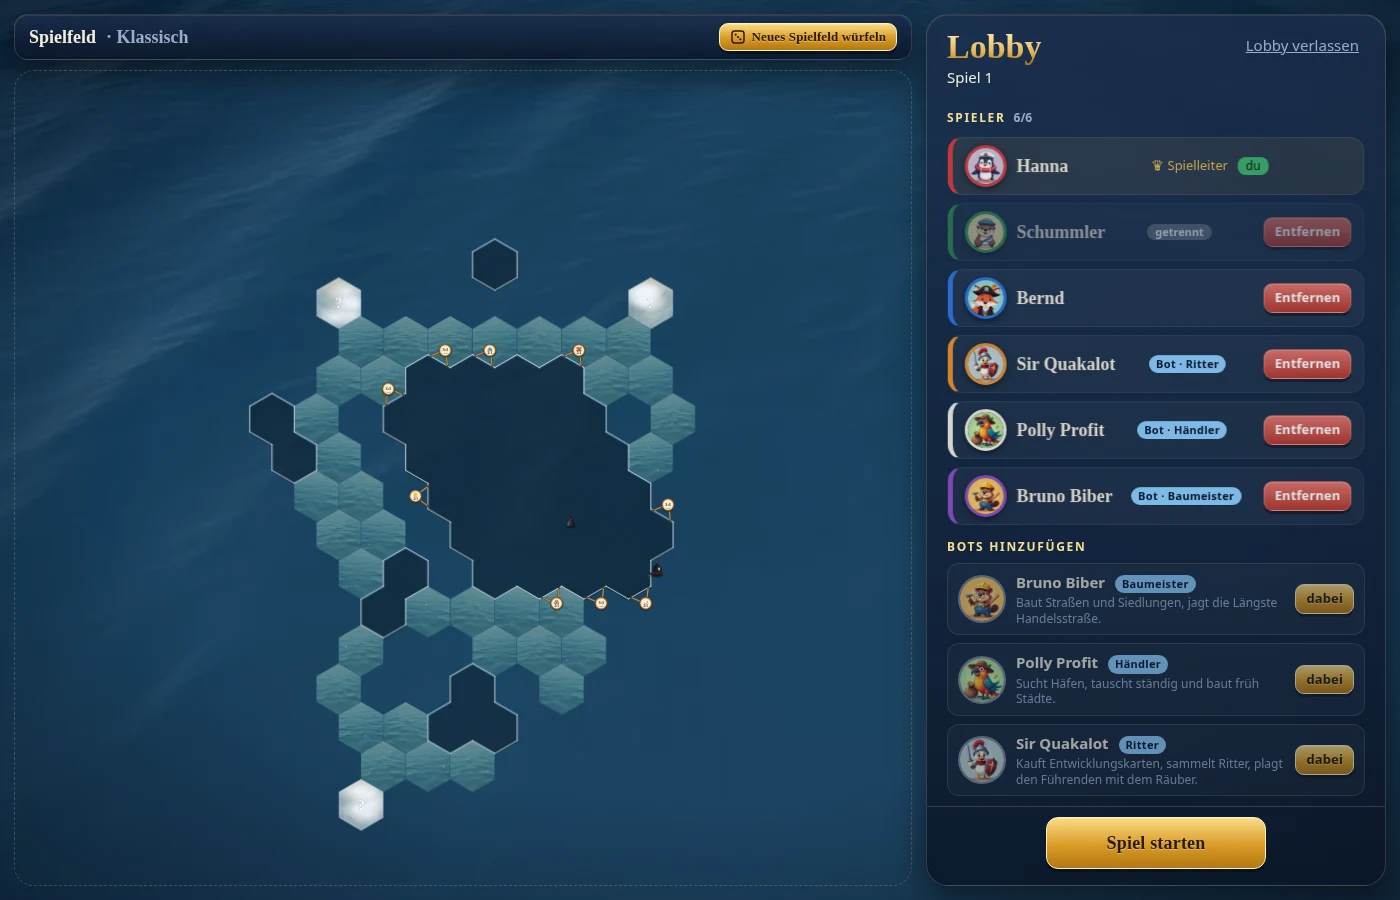
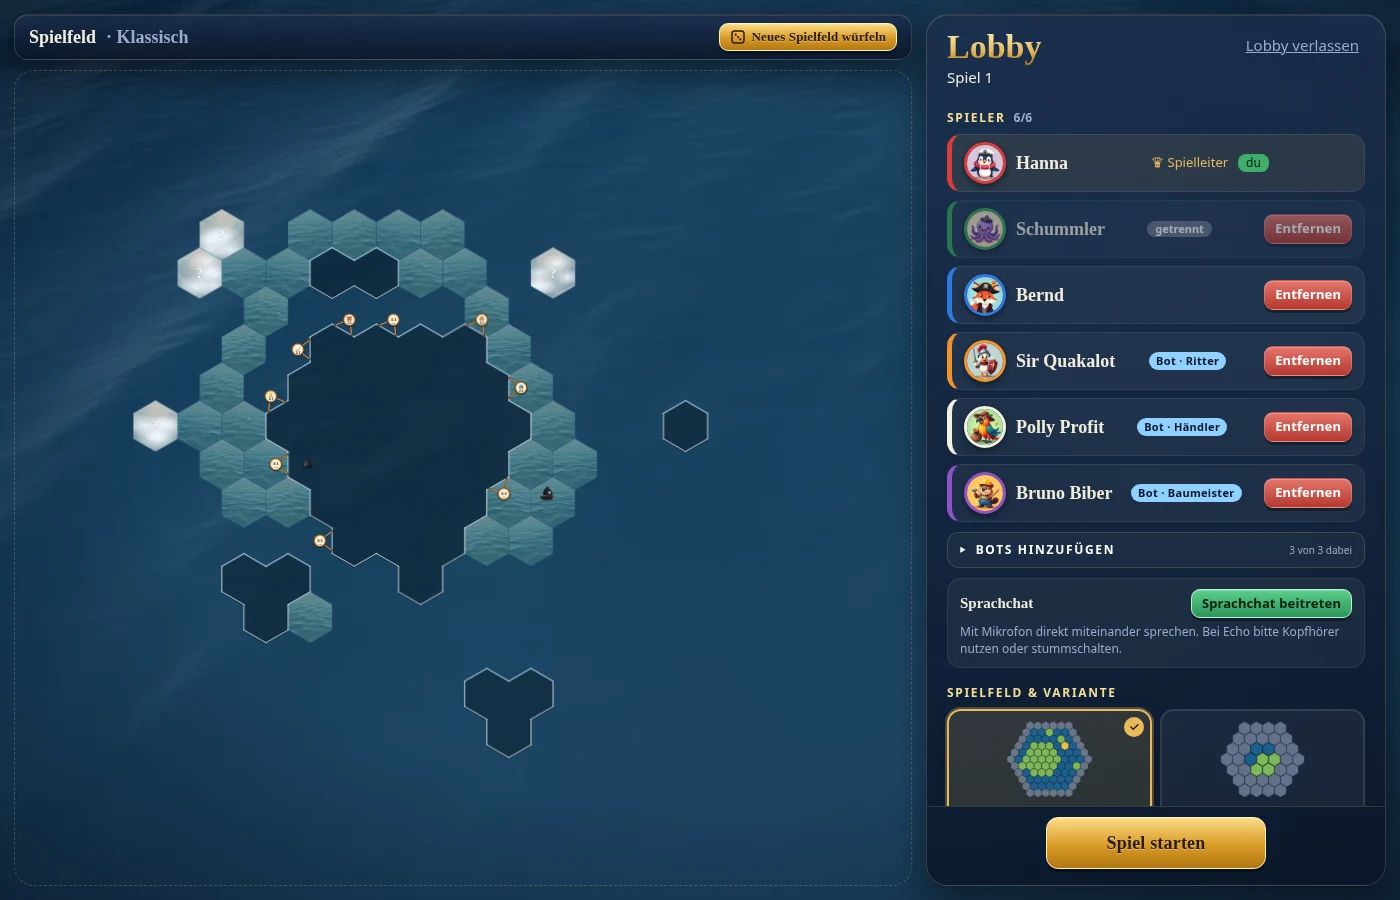
Bots in der Lobby als Aufklapp-Liste unter den Spielern, spart Platz
Claude-Session: https://claude.ai/code/session_011Zmbz9sbT58iYAsNLxzKWW

diff --git a/public/lobby.js b/public/lobby.js
@@ -18,7 +18,7 @@
   // ======================================================================================
   // Anmeldung: Name, Farbe, Spieleliste
   // ======================================================================================
-  const L = { games: [], sel: null, color: null, avatar: null, timer: 0, notice: '', err: '' };
+  const L = { botsOpen: false, games: [], sel: null, color: null, avatar: null, timer: 0, notice: '', err: '' };
   const AVS = root.Avatars;
   const joinable = () => L.games.filter((g) => g.joinable !== false);
   const selGame = () => L.games.find((g) => g.id === L.sel) || null;
@@ -410,11 +410,11 @@
     C.setHTML($('lobbyVoice'), root.Voice ? root.Voice.panel() : '');
     // Bots hinzufügen (nur Spielleiter)
     const full = v.players.length >= (v.maxPlayers || 6), here = new Set(v.players.map((p) => p.bot).filter(Boolean));
-    C.setHTML($('lobbyBots'), host ? `<h3 class="lb-h">Bots hinzufügen</h3><div class="botcards">` + Object.entries(AVS.BOTS).map(([k, b]) => {
+    C.setHTML($('lobbyBots'), host ? `<details class="botdrop"${L.botsOpen ? ' open' : ''}><summary><span>Bots hinzufügen</span><small>${here.size} von ${Object.keys(AVS.BOTS).length} dabei</small></summary><div class="botcards">` + Object.entries(AVS.BOTS).map(([k, b]) => {
       const dis = here.has(k) || full || !!v.closed;
       return `<div class="botcard${here.has(k) ? ' here' : ''}"><img src="img/av/${b.avatar}.webp" alt="" draggable="false"><div class="bi"><b>${C.esc(b.name)}</b> <span class="botTag">${C.esc(b.label)}</span><small>${C.esc(b.desc)}</small></div>` +
         `<button type="button" class="btn small gold" data-addbot="${k}" ${dis ? 'disabled' : ''} title="${here.has(k) ? 'Ist schon dabei' : full ? 'Das Spiel ist voll' : v.closed ? 'Die Plätze sind als besetzt erklärt' : 'Als Mitspieler hinzufügen'}">${here.has(k) ? 'dabei' : 'Hinzufügen'}</button></div>`;
-    }).join('') + '</div>' : '');
+    }).join('') + '</div></details>' : '');
 
     // Variante, Spielerzahl, Plaetze
     const cur = eff('variant') || 'klassisch';
@@ -464,6 +464,7 @@
       if (k) { const pid = Number(k.dataset.kick), name = v.players[pid] ? v.players[pid].name : ''; if (await Menu.confirm('Spieler entfernen?', `${name} wird aus der Lobby entfernt.`, 'Entfernen', true)) await C.act('kick', { pid }); }
     });
     $('lobbyChatForm').addEventListener('submit', async (e) => { e.preventDefault(); const t = $('lobbyChatIn').value.trim(); if (!t) return; $('lobbyChatIn').value = ''; await C.act('chat', { text: t }); });
+    $('lobbyBots').addEventListener('toggle', (e) => { if (e.target.classList.contains('botdrop')) L.botsOpen = e.target.open; }, true); // Auf-/Zuklappen merken, auch wenn die Liste neu gezeichnet wird
     $('leaveBtn').addEventListener('click', () => C.leave());
   }
   const resetLocal = () => { ovr.clear(); patch = {}; clearTimeout(flushT); lastSettings = null; $('lobbySettings').replaceChildren(); };

diff --git a/public/style.css b/public/style.css
@@ -304,6 +304,14 @@ input:focus { border-color: var(--gold); box-shadow: 0 0 0 3px rgba(232, 185, 90
 .avb.on { border-color: #fff; transform: scale(1.1); box-shadow: 0 0 0 4px rgba(248, 220, 146, .85), 0 8px 18px rgba(0, 0, 0, .55); }
 .avb.taken { filter: grayscale(1) brightness(.5); cursor: not-allowed; }
 .botTag { display: inline-block; margin-left: 6px; padding: 1px 7px; border-radius: 999px; font: 700 11px/1.5 var(--sans, sans-serif); letter-spacing: .03em; color: #0d1830; background: #8fd0ff; vertical-align: middle; }
+.botdrop { margin-top: 10px; border: 1px solid var(--line); border-radius: 12px; background: rgba(255, 255, 255, .04); }
+.botdrop > summary { display: flex; align-items: center; gap: 8px; padding: 8px 12px; cursor: pointer; list-style: none; font: 700 12px var(--sans); letter-spacing: .14em; text-transform: uppercase; color: var(--gold2, #f1d27a); }
+.botdrop > summary::-webkit-details-marker { display: none; }
+.botdrop > summary::before { content: '▸'; transition: transform .15s; } .botdrop[open] > summary::before { transform: rotate(90deg); }
+.botdrop > summary small { margin-left: auto; font-weight: 400; text-transform: none; letter-spacing: 0; }
+.botdrop > summary:hover { color: #fff; }
+.botdrop > summary small { color: var(--muted, #9fb0cf); }
+.botdrop .botcards { padding: 0 8px 8px; }
 .lb-bots .botcards { display: grid; gap: 8px; }
 .botcard { display: flex; align-items: center; gap: 10px; padding: 8px 10px; border: 1px solid var(--line); border-radius: 12px; background: rgba(255, 255, 255, .05); }
 .botcard.here { opacity: .65; }

diff --git a/tests/browser_bots.py b/tests/browser_bots.py
@@ -71,8 +71,11 @@ try:
 
         # --- Bots hinzufügen (nur Spielleiter)
         check(B.locator('#lobbyBots .botcard').count() == 0, 'Gast sieht keine Bot-Steuerung')
-        A.wait_for_selector('#lobbyBots .botcard')
-        check(A.locator('#lobbyBots .botcard').count() == 3, 'Spielleiter sieht die drei Bots')
+        A.wait_for_selector('#lobbyBots .botdrop')
+        check(A.eval_on_selector('#lobbyBots .botdrop', 'e => !e.open'), 'Bot-Auswahl ist eingeklappt (braucht kaum Platz)')
+        check(not A.locator('#lobbyBots .botcard').first.is_visible(), 'Bot-Karten sind eingeklappt unsichtbar')
+        A.click('#lobbyBots .botdrop > summary')
+        check(A.locator('#lobbyBots .botcard').count() == 3 and A.locator('#lobbyBots .botcard').first.is_visible(), 'Aufklappen zeigt die drei Bots')
         A.locator('[data-addbot="ritter"]').click()
         A.wait_for_selector('#lobbyList li:has-text("Sir Quakalot")')
         check(A.locator('[data-addbot="ritter"]').is_disabled(), 'jede Bot-Sorte nur einmal')
@@ -80,6 +83,10 @@ try:
         A.wait_for_selector('#lobbyList li:has-text("Polly Profit")')
         A.locator('[data-addbot="baumeister"]').click()
         A.wait_for_selector('#lobbyList li:has-text("Bruno Biber")')
+        check(A.eval_on_selector('#lobbyBots .botdrop', 'e => e.open'), 'Auswahl bleibt nach dem Hinzufügen aufgeklappt')
+        check('3 von 3' in A.inner_text('#lobbyBots summary'), 'Kopfzeile zeigt, wie viele Bots dabei sind')
+        A.click('#lobbyBots .botdrop > summary')
+        check(A.eval_on_selector('#lobbyBots .botdrop', 'e => !e.open'), 'Zuklappen merkt sich den Zustand')
         pl = games()[0]['players']
         check(len(pl) == 6 and len({x['avatar'] for x in pl}) == 6, 'sechs Spieler mit sechs verschiedenen Avataren')
         check({x['avatar'] for x in pl if x.get('bot')} == BOT_AV, 'Bots haben ihre festen Avatare')

diff --git a/CHANGELOG.md b/CHANGELOG.md
@@ -5,7 +5,7 @@ Format nach [Keep a Changelog](https://keepachangelog.com/de/1.1.0/).
 ## [Unveröffentlicht]
 
 ### Hinzugefügt
-- **Bots mit Strategie:** Der Spielleiter kann in der Lobby bis zu drei Computerspieler hinzufügen – Bruno Biber (Baumeister), Polly Profit (Händler) und Sir Quakalot (Ritter) – mit festen, lustigen Avataren. Sie bewerten Startecken, Bauplätze, Räuber, Handel und Entwicklungskarten nach unterschiedlichen Gewichten und ziehen im Takt (`BOT_MS`).
+- **Bots mit Strategie:** Der Spielleiter kann in der Lobby (Aufklapp-Liste „Bots hinzufügen“ unter den Spielern, standardmäßig zugeklappt) bis zu drei Computerspieler hinzufügen – Bruno Biber (Baumeister), Polly Profit (Händler) und Sir Quakalot (Ritter) – mit festen, lustigen Avataren. Sie bewerten Startecken, Bauplätze, Räuber, Handel und Entwicklungskarten nach unterschiedlichen Gewichten und ziehen im Takt (`BOT_MS`).
 - **Avatare:** 8 mit Flux/Forge gemalte Tierporträts zur Auswahl beim Beitritt; zufälliger Vorschlag, im Spiel vergebene sind gesperrt, der Server vergibt nie doppelt. Bot-Avatare sind für Menschen nicht wählbar. Die Avatare erscheinen in Spielerkarten, Lobby, Handel und Statistik.
 - Tests: `tests/bots.js` (Bot-Turnier), `tests/browser_bots.py` (Avatare und Bots im Browser), neue Funktionstests.
 

diff --git a/README.md b/README.md
@@ -63,7 +63,7 @@ Stummschalten ist immer möglich (Knopf im Spiel und im Menü, optional Push-to-
   Das Spiel endet komplett, wenn der letzte Spieler den Tab schließt oder im Menü „Spiel verlassen“ wählt (≈ 20 s Kulanz für Neuladen).
 - **Avatare:** Beim Beitritt wählt jeder eines von 8 Tierporträts (mit Forge/Flux gemalt); vorgeschlagen wird zufällig eines, im gewählten Spiel schon vergebene sind gesperrt.
   Der Server vergibt nie einen Avatar doppelt (bei Kollision bekommt man zufällig einen freien).
-- **Bots:** Der Spielleiter kann in der Lobby bis zu drei Computerspieler hinzufügen, je Sorte einen, mit festem Avatar und Namen:
+- **Bots:** Der Spielleiter kann in der Lobby (Aufklapp-Liste „Bots hinzufügen“ unter den Spielern) bis zu drei Computerspieler hinzufügen, je Sorte einen, mit festem Avatar und Namen:
   *Bruno Biber* (Baumeister – baut Straßen und Siedlungen, jagt den Längsten Handelsweg), *Polly Profit* (Händler – Häfen, viel Tauschen, früh Städte)
   und *Sir Quakalot* (Ritter – Entwicklungskarten, Schutzmacht, stört den Führenden mit dem Räuber). Menschen können die Bot-Avatare und -Namen nicht wählen.
   Bots nutzen nur öffentliche Informationen und ziehen im Takt (`BOT_MS`, Standard 800 ms). Der Spielleiter kann sie vor Spielbeginn wieder entfernen.
